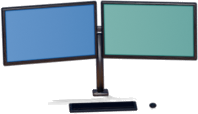
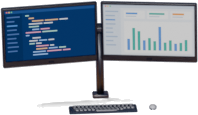
feat(personal-space): Blender 工作站精細化（PS-245）
沿用 PS-244 的場景與相機，家具做出真實構造（封邊與抽屜把手、彎曲椅背
與腳輪、逐顆鍵帽、numpy 繪製的螢幕 UI、紅線計畫板與月曆、書背色帶與
獎盃），房間加入木紋、地毯、護牆框線、壁燈、時鐘、插座、捲簾與窗簾。
相機與角色比例不變；首屏 +6.9%、完整場景 +3.7%，仍低於 PS-244 前。

Claude-Session: https://claude.ai/code/session_01HH5mddWFP2P3GpjP9DEEUr

diff --git a/pwa/js/personalSpace/v2/content/assetManifest.js b/pwa/js/personalSpace/v2/content/assetManifest.js
@@ -63,14 +63,14 @@ export const WORKSPACE_V2_ASSETS = Object.freeze({
 });
 
 const PROP_DEFINITIONS = Object.freeze([
-  prop('corner-desk', 25, { x: 38.997, y: 66.113, width: 23.568, z: 24 }),
-  prop('office-chair', 25, { x: 39.974, y: 66.211, width: 8.073, z: 30 }),
-  prop('office-shelf', 50, { x: 72.331, y: 54.395, width: 39.453, z: 22 }),
-  prop('desk-lamp', 50, { x: 32.91, y: 47.754, width: 3.711, z: 29 }),
-  prop('planning-board', 75, { x: 39.128, y: 38.281, width: 13.542, z: 10 }),
-  prop('single-monitor', 75, { x: 40.723, y: 48.438, width: 7.096, z: 28 }, 99),
-  prop('dual-monitor', 100, { x: 40.495, y: 48.535, width: 12.891, z: 28 }),
-  prop('office-plant', 100, { x: 72.461, y: 64.844, width: 23.047, z: 23 }),
+  prop('corner-desk', 25, { x: 38.965, y: 66.309, width: 23.633, z: 24 }),
+  prop('office-chair', 25, { x: 39.714, y: 69.434, width: 8.854, z: 30 }),
+  prop('office-shelf', 50, { x: 69.466, y: 54.395, width: 34.766, z: 22 }),
+  prop('desk-lamp', 50, { x: 32.943, y: 47.754, width: 3.776, z: 29 }),
+  prop('planning-board', 75, { x: 39.193, y: 39.062, width: 14.193, z: 10 }),
+  prop('single-monitor', 75, { x: 40.755, y: 48.438, width: 7.031, z: 28 }, 99),
+  prop('dual-monitor', 100, { x: 40.495, y: 48.438, width: 12.891, z: 28 }),
+  prop('office-plant', 100, { x: 72.135, y: 64.746, width: 23.307, z: 23 }),
 ]);
 
 export const WORKSPACE_PROJECT_PHASES = Object.freeze([

diff --git a/tests/unit/ps243AssetBudget.test.js b/tests/unit/ps243AssetBudget.test.js
@@ -15,14 +15,14 @@ describe('PS-243 asset baseline', () => {
 
   it('keeps the PS-242 production first paint below the authored-art target', () => {
     const { initialPaint } = baseline.runtimeSceneAssets;
-    expect(initialPaint.totalBytes).toBe(170_661);
+    expect(initialPaint.totalBytes).toBe(182_493);
     expect(initialPaint.totalBytes).toBeLessThan(BUDGETS.initialPaint.targetBytes);
     expect(initialPaint.result).toBe('PASS');
   });
 
   it('keeps the complete production state pack plus eight props within budget', () => {
     const { completeProofScene } = baseline.runtimeSceneAssets;
-    expect(completeProofScene.totalBytes).toBe(1_252_207);
+    expect(completeProofScene.totalBytes).toBe(1_298_860);
     // Legacy evidence key retained for artifact compatibility: 1 background,
     // 12 protagonist poses, 6 Companion states, 2 weather overlays, and 8 props.
     expect(completeProofScene.files).toHaveLength(29);

diff --git a/pwa/js/version.js b/pwa/js/version.js
@@ -1,3 +1,3 @@
 // Single source of truth for the app version.
 // scripts/bump.mjs rewrites the line below on every release — keep its exact format.
-export const APP_VERSION = 'v1.29.0';
+export const APP_VERSION = 'v1.30.0';

diff --git a/pwa/sw.js b/pwa/sw.js
@@ -1,6 +1,6 @@
 // Service Worker
 // Bump CACHE version on every deploy so users always get fresh code.
-const CACHE = 'orbit-v1.29.0';
+const CACHE = 'orbit-v1.30.0';
 
 const SHELL = [
   './',

diff --git a/tasks.md b/tasks.md
@@ -192,18 +192,21 @@
 
 ## In Progress
 
-- [ ] **PS-245** Blender 工作站精細化（使用者要求「精細模型」）
-  - 目標：在 PS-244 的同一管線上提高模型與房間細節，讓小卡尺寸也看得出材質與結構。
-  - 範圍：家具真實結構（倒角、桌腳與走線槽、五爪腳與扶手、螢幕外殼與支架、鍵帽、滑鼠、桌面小物）；房間細節（吸頂燈或燈具、門、百葉窗、踢腳板、地毯、插座、牆面掛畫、程序化木紋）；檢討相機取景讓家具在 Orbit Window 小卡上更大。
-  - 不含：主角與 Companion 的 3D 化（範圍大、會推翻 PS-242 已核准的像素角色，需使用者另行決定）。
-  - 完成條件：五階段預覽在 100% 與小卡尺寸都通過目視 QA；`ps242`／`ps243` gate 與預算通過；placement 測試通過。
-
 - [ ] **PS-243** Complete device performance, accessibility, and telemetry acceptance
   - In progress: establish a reproducible browser acceptance baseline and evidence matrix for responsive viewports, 200% zoom, keyboard flow, reduced motion, route/runtime lifecycle, privacy-safe local telemetry, and simulated performance. Real iOS／Android／standalone PWA measurements and two-account verification remain explicit human-device gates.
 
 ---
 
 ## Done
+
+- [x] **PS-245** Blender 工作站精細化（使用者要求「精細模型」）
+  - 目標：在 PS-244 的同一管線上提高模型與房間細節，讓小卡尺寸也看得出材質與結構。
+  - 範圍：家具真實結構（倒角、桌腳與走線槽、五爪腳與扶手、螢幕外殼與支架、鍵帽、滑鼠、桌面小物）；房間細節（吸頂燈或燈具、門、百葉窗、踢腳板、地毯、插座、牆面掛畫、程序化木紋）；檢討相機取景讓家具在 Orbit Window 小卡上更大。
+  - 不含：主角與 Companion 的 3D 化（範圍大、會推翻 PS-242 已核准的像素角色，需使用者另行決定）。
+  - 完成條件：五階段預覽在 100% 與小卡尺寸都通過目視 QA；`ps242`／`ps243` gate 與預算通過；placement 測試通過。
+  - 完成（2026-10-18，v1.30.0）：`scene.py` 新增 `Builder.tube`／`panel`／`screen` 與 numpy 繪製的螢幕 UI、木紋與軟木材質；8 件家具與房間細節依上述範圍完成；相機與角色寬度不變。
+  - 驗證：`ps242:manifest -- --check`、`ps243:assets -- --check`；首屏 182,493 B、完整場景 1,298,860 B；五階段預覽目視 QA。
+  - 誠實評估：地板留白仍偏多；角色仍是像素 sprite，是畫面中最粗糙的部分，是否 3D 化需使用者決定。
 
 - [x] **PS-244** 以 Blender 預渲染 Formal Workstation 環境素材（房間＋8 件家具×5 階段）
   - 目標：用同一個 Blender 場景與固定相機重做「空間」分頁的房間背景與 8 件 Workspace Upgrade 家具，修正目前繪製房間＋舊像素家具混用造成的風格、透視、比例與接觸陰影不一致。

diff --git a/CHANGELOG.md b/CHANGELOG.md
@@ -3,6 +3,31 @@
 所有版本記錄於此。格式參考 [Keep a Changelog](https://keepachangelog.com/zh-TW/1.0.0/)。
 版本號遵循 [Semantic Versioning](https://semver.org/lang/zh-TW/)。
 
+## [1.30.0] - 2026-10-18
+
+### Changed
+- **「空間」的 Blender 工作站精細化（PS-245）**：沿用 PS-244 的同一個場景與相機，把家具與房間做出真實構造。
+  - **家具**：
+    - 書桌：封邊桌板、內縮抽屜與橫桿把手、邊櫃門、鋼腳與橡膠腳墊、走線槽，以及桌墊、筆記本、馬克杯。
+    - 椅子：彎曲網布椅背、腰靠、頭枕、扶手與腳輪。
+    - 書櫃：書背色帶、書擋、收納盒、獎盃與相框。
+    - 檯燈：雙桿關節臂、燈罩邊環與電線。
+    - 計畫板：木框、紅線串起便條、月曆與照片。
+    - 螢幕與鍵盤：程序化繪製的程式碼編輯器與亮色儀表板畫面（小卡尺寸也看得清楚）、背殼與支架；鍵盤做出逐顆鍵帽與滑鼠。
+    - 盆栽：加上底盤與更多葉片。
+  - **房間**：地板木紋、角色站立區的地毯、護牆框線板、每個光暈上方的壁燈、書櫃上方的時鐘、插座、窗戶的捲簾與窗簾。
+- 相機不變，角色比例（24%／13%）與成就相框位置都不需要調整；新物件避開相框在桌面與手機尺寸的範圍。
+
+### Performance
+- 細節增加後，首屏素材 170,661 → 182,493 bytes（+6.9%），完整場景 1,252,207 → 1,298,860 bytes（+3.7%）。仍低於 PS-244 之前的 259,133／1,766,935，也遠低於 1.5 MB／4 MB 的目標。
+
+### Validation
+- `npm run ps242:manifest -- --check`、`npm run ps243:assets -- --check` 通過；`ps243AssetBudget.test.js` 更新釘住的位元組數。
+- 五個專案階段的合成預覽（`art-pipeline/ps244-blender/previews/`）目視 QA：家具透視與陰影正確、椅子在螢幕前方、相框不被遮擋。
+- `npm run lint` 通過；`npm test`（64 files／1073 tests）通過；`tests/e2e` 41/41 通過（本機以容器內建 Chromium 執行）。
+
+---
+
 ## [1.29.0] - 2026-10-18
 
 ### Changed

diff --git a/docs/agent-handoff.md b/docs/agent-handoff.md
@@ -4,7 +4,7 @@
 
 任務本身的定義與驗收條件以 [`tasks.md`](../tasks.md) 為準；本檔只記錄進行中的狀態、與使用者約定的工作規則，以及接手需要的操作細節。
 
-> 最後更新：2026-10-18（UTC 06:25 左右）。main = `aa98bdb`（v1.29.0，#167、#168 已合併）。
+> 最後更新：2026-10-18（UTC 07:05 左右）。main = `aa98bdb`（v1.29.0，#167、#168 已合併）。
 
 ## 1. 接手前先讀
 
@@ -29,7 +29,7 @@
 
 ## 3. 進行中的工作
 
-- **PS-245（精細化）**：分支 `feat/ps-245-blender-detail`（從 `aa98bdb` 開），計畫見 §6。`scene.py` 的家具與房間細節已寫入（WIP commit），正在跑 768px 草稿檢查構圖；尚未全解析度渲染、尚未更新 runtime 素材與測試數字、PR 尚未開。若 session 中斷，從「草稿渲染 → 目視 → 全解析度」繼續。
+- **PS-245（精細化）**：分支 `feat/ps-245-blender-detail`，全解析度渲染、runtime 素材、manifest、版本（v1.30.0）與文件都已完成，PR 開啟後依 §2 做獨立 review。合併後本節改為「無進行中的工作」。
 - 草稿 PR [#154](https://github.com/yoyoCadence/Orbit/pull/154)（`feat/pro-014l-streak-unlock-rpc`，PRO-014L）不是本工作階段開的；它改的 SUB-16 路徑與 `PRO-014P` 相同。
 - Codex review 額度在 2026-10-18 用完；之後的 PR 依 §2 改用獨立 Claude review（只讀 agent，對照程式碼回報 P1／P2／P3，修完再請它複查）。
 
@@ -68,7 +68,7 @@
 
 ### 可直接做（低風險）
 
-- PS-245（進行中）。完成後依 `tasks.md` 的 Next 繼續；目前 Next 只有需要使用者執行的 BUG-109A。
+- PS-245 合併後，依 `tasks.md` 的 Next 繼續；目前 Next 只有需要使用者執行的 BUG-109A，其餘待辦都需要使用者決定或核准（見上）。
 
 ## 6. PS-245 精細化：實作計畫
 

diff --git a/ROADMAP.md b/ROADMAP.md
@@ -4,7 +4,7 @@
 
 > 2026-07-31 HW-105 sync note: v1.23.0 已完成 device-local achievement photo wall；使用者可從本機佐證選一張展示在 Personal Space，共用 poster／Pixi 相框並在圖片不可用時安全 fallback，未新增 auth／schema 依賴。
 
-目前版本：**v1.29.0**
+目前版本：**v1.30.0**
 
 這份文件記錄 Orbit 的公開功能規劃方向。功能依優先順序排列，會隨專案進展持續更新。
 
@@ -36,6 +36,7 @@
 
 ## 已完成
 
+- v1.30.0 — **Personal Space Blender 工作站精細化（PS-245）**：家具做出真實構造（抽屜把手、彎曲椅背與腳輪、鍵帽、螢幕 UI、紅線計畫板），房間加入木紋、地毯、壁燈、時鐘、捲簾與窗簾；相機與角色比例不變
 - v1.29.0 — **Personal Space Blender 工作站素材（PS-244）**：房間與 8 件 Workspace Upgrade 家具由同一個程序化 Blender 場景與相機渲染（toon＋輪廓線），接觸陰影隨家具移動、placement 由 3D 投影推得、角色依 1.7 m 校準，素材總量 −29%
 - v1.23.0 — **Personal Space achievement photo wall（HW-105）**：owner-scoped 本機佐證選取、Home／History 44px 控制、poster／Pixi 共用相框、圖片遺失 placeholder 與無 auth／schema 變更的隱私邊界
 - v1.22.0 — **Personal Space V2 production action art（PS-242）**：正式 3:2 Formal Workstation、主角六狀態左右向、Companion 六狀態、clear／rain 疊圖、poster／Pixi 共用解析與可重現 provenance／QC manifest
